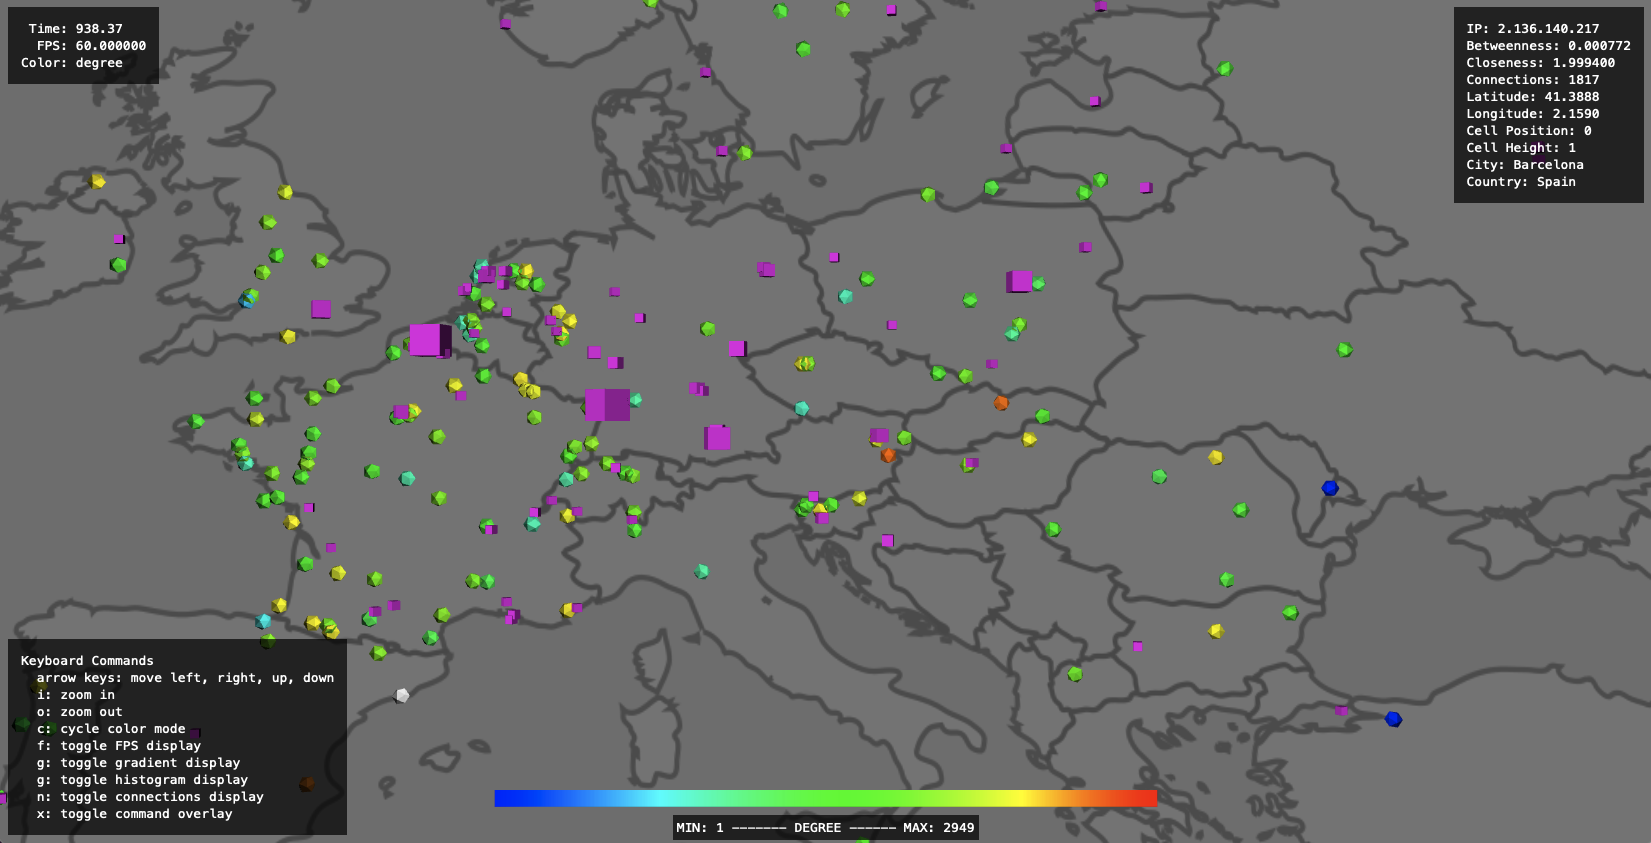
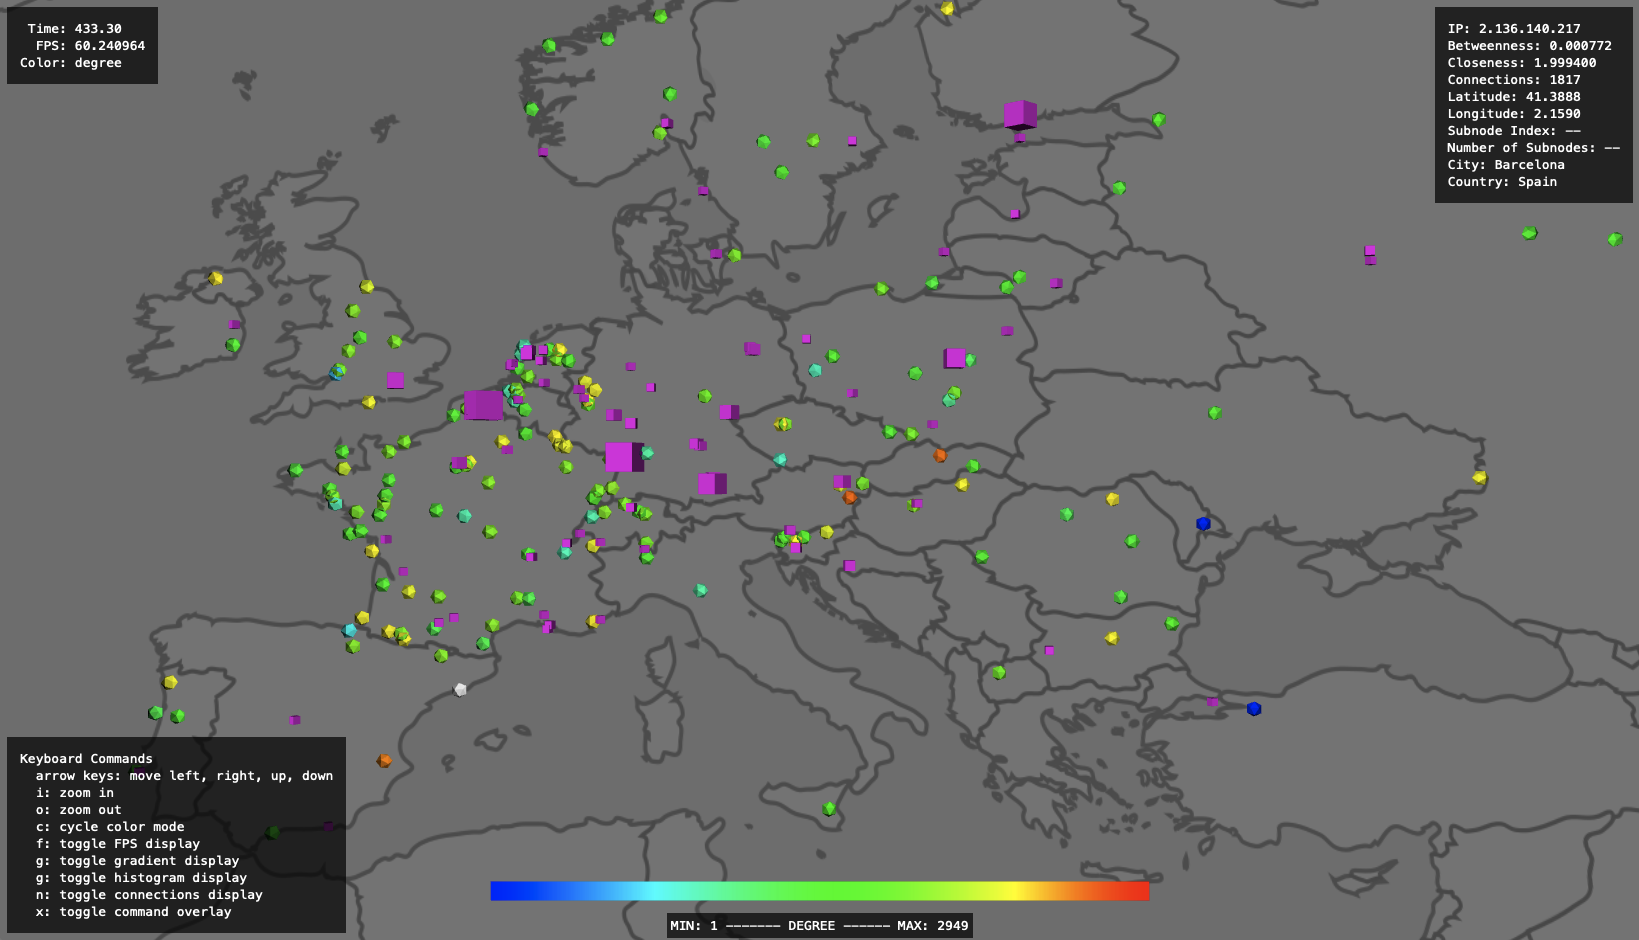
feat: change cell height & position text, replace two screen shots
* docs: readme update

* feat: remove cell height & position fields from metadata display; replaced 2 screen shots

diff --git a/src/client/world.ts b/src/client/world.ts
@@ -113,8 +113,8 @@ export class CWorld {
     public longitudeNode: Text;
     public cityNode: Text;
     public countryNode: Text;
-    public positionNode: Text;
-    public heightNode: Text;
+    public subnodeIndexNode: Text;
+    public numSubnodesNode: Text;
     public colorModeNode: Text;
     public gradientNode: Text;
     public initialized: boolean;
@@ -129,8 +129,8 @@ export class CWorld {
         this.connectionsNode = document.createTextNode("");
         this.latitudeNode = document.createTextNode("");
         this.longitudeNode = document.createTextNode("");
-        this.positionNode = document.createTextNode("");
-        this.heightNode = document.createTextNode("");
+        this.subnodeIndexNode = document.createTextNode("");
+        this.numSubnodesNode = document.createTextNode("");
         this.cityNode = document.createTextNode("");
         this.countryNode = document.createTextNode("");
         this.colorModeNode = document.createTextNode("");
@@ -148,8 +148,8 @@ export class CWorld {
         document.querySelector("#connections").appendChild(this.connectionsNode);
         document.querySelector("#latitude").appendChild(this.latitudeNode);
         document.querySelector("#longitude").appendChild(this.longitudeNode);
-        document.querySelector("#position").appendChild(this.positionNode);
-        document.querySelector("#height").appendChild(this.heightNode);
+        document.querySelector("#subnode").appendChild(this.subnodeIndexNode);
+        document.querySelector("#numsubnodes").appendChild(this.numSubnodesNode);
         document.querySelector("#city").appendChild(this.cityNode);
         document.querySelector("#country").appendChild(this.countryNode);
         document.querySelector("#colormode").appendChild(this.colorModeNode);
@@ -326,8 +326,8 @@ export class CWorld {
             this.longitudeNode.nodeValue = node.inode.geolocation.coordinates.longitude.toFixed(4);
             this.cityNode.nodeValue = node.inode.geolocation.city;
             this.countryNode.nodeValue = node.inode.geolocation.country;
-            this.positionNode.nodeValue = node.nodeType != ENodeType.Super ? node.inode.subnode_index.toString() : '--';
-            this.heightNode.nodeValue = node.nodeType != ENodeType.Super ? node.inode.num_subnodes.toString() : '--';
+            this.subnodeIndexNode.nodeValue = node.nodeType != ENodeType.Sub ? '--' : node.inode.subnode_index.toString();
+            this.numSubnodesNode.nodeValue = node.nodeType != ENodeType.Sub ? '--' : node.inode.num_subnodes.toString();
             document.getElementById("overlayRight").style.visibility = "visible";
         } else {
             document.getElementById("overlayRight").style.visibility = "hidden";

diff --git a/dist/client/geo.html b/dist/client/geo.html
@@ -153,8 +153,8 @@
             <div>Connections: <span id="connections"></span></div>
             <div>Latitude: <span id="latitude"></span></div>
             <div>Longitude: <span id="longitude"></span></div>
-            <div>Cell Position: <span id="position"></span></div>
-            <div>Cell Height: <span id="height"></span></div>
+            <div>Subnode Index: <span id="subnode"></span></div>
+            <div>Number of Subnodes: <span id="numsubnodes"></span></div>
             <div>City: <span id="city"></span></div>
             <div>Country: <span id="country"></span></div>
           </div>
